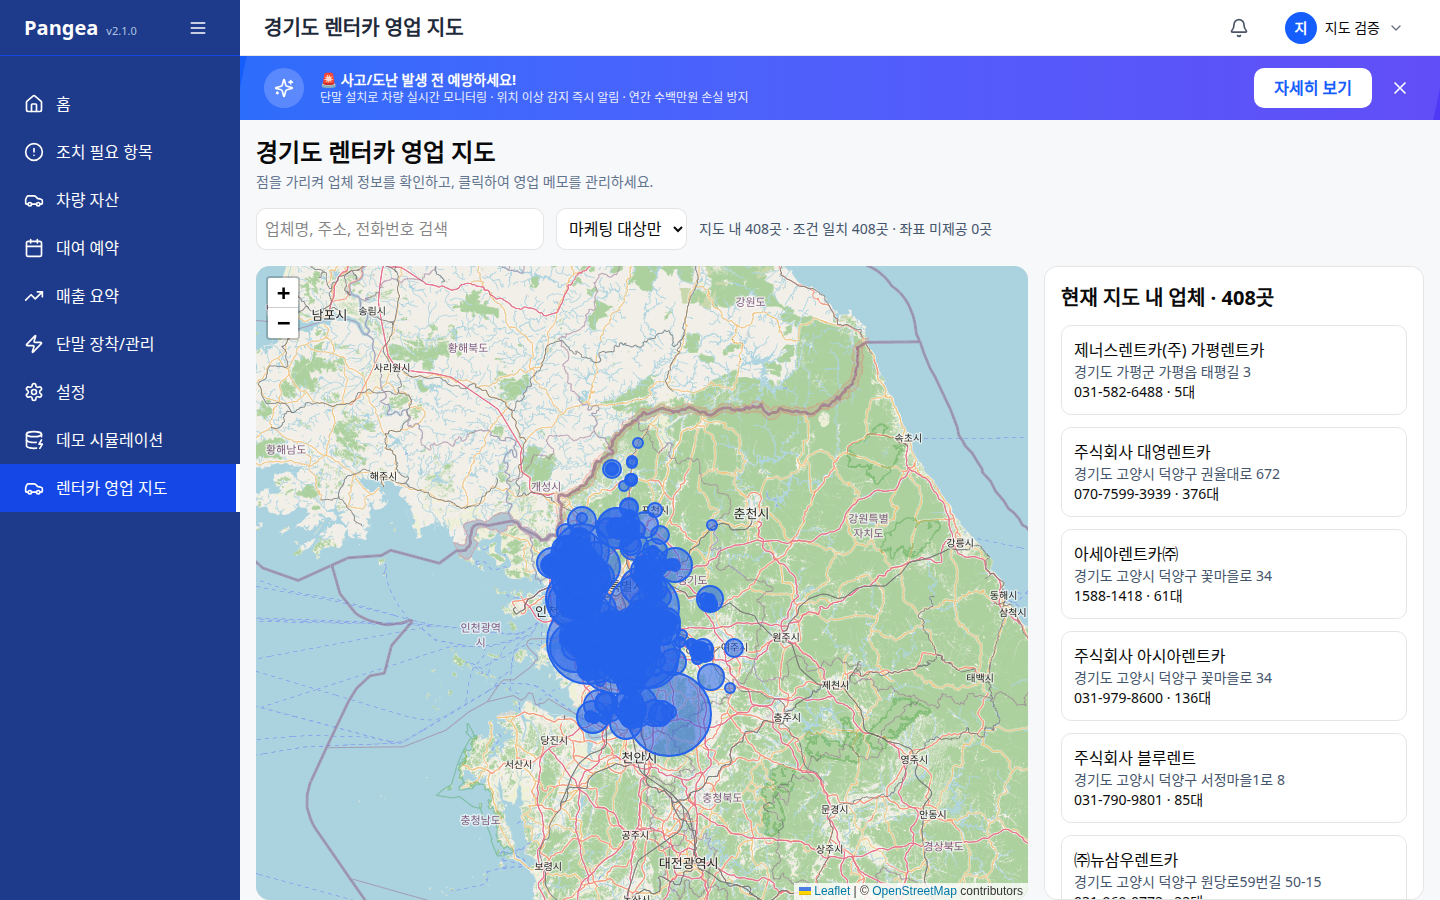
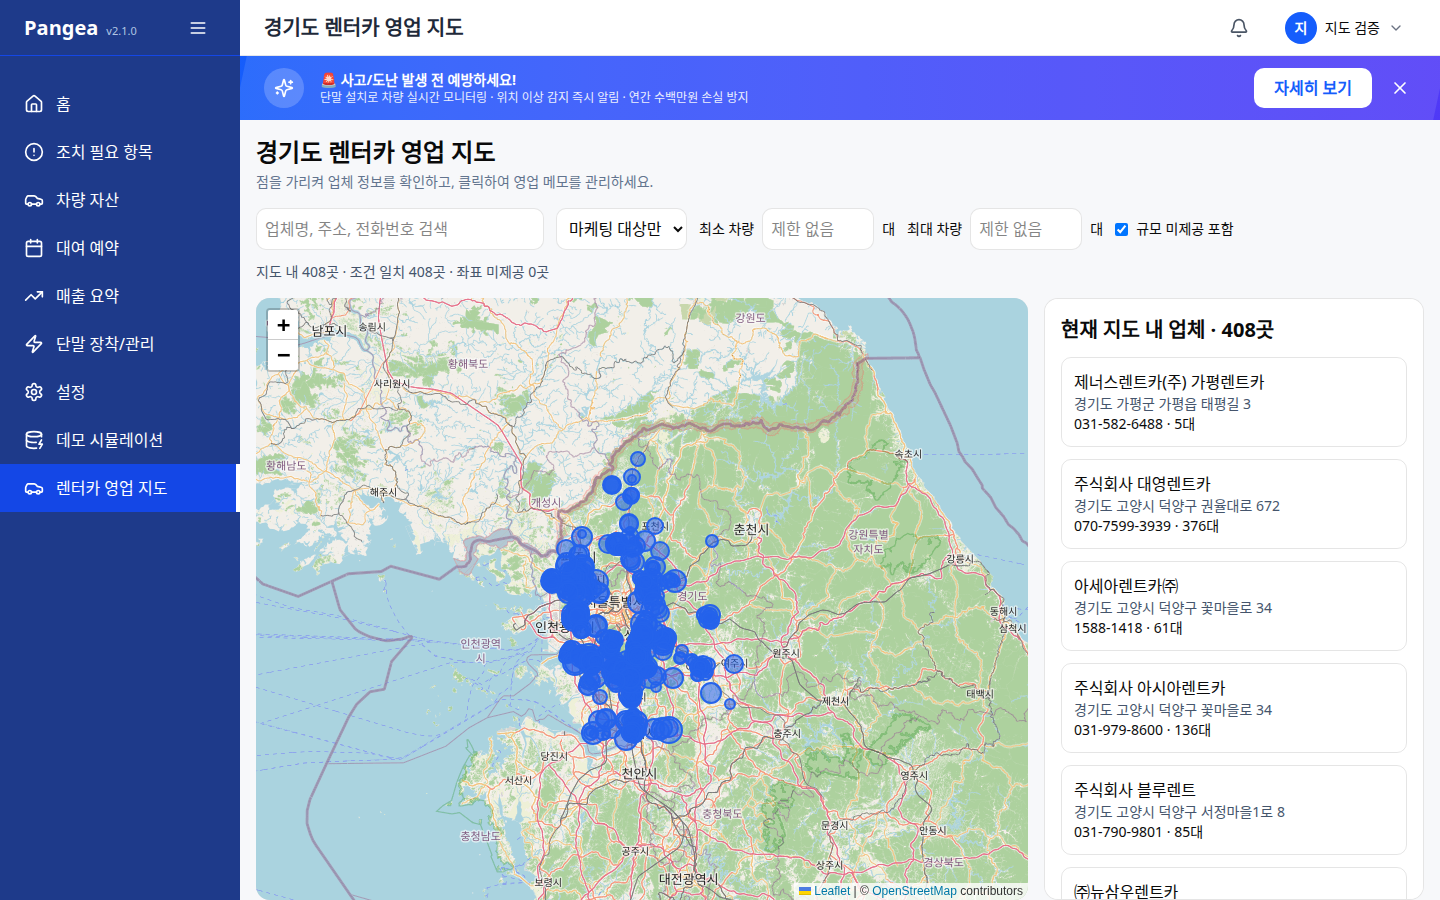
WI-20261026-001 filter fleet sizes and bound logarithmic markers

Changed region(s): [[0.1562, 0.2489, 0.9062, 1.0], [0.75, 0.2489, 0.875, 0.28], [0.2188, 0.9333, 0.25, 1.0]]

diff --git a/src/app/pages/RentalProspects.tsx b/src/app/pages/RentalProspects.tsx
@@ -10,8 +10,8 @@ const count = (n: number | null) => n === null ? '미제공' : `${n.toLocaleStri
 const hasLocation = (p: RentalProspect) => p.latitude !== null && p.longitude !== null;
 const vehicleDetails = (p: RentalProspect) => `승용 ${count(p.passengerVehicles)} · 승합 ${count(p.vans)} · 전기승용 ${count(p.electricPassengerVehicles)} · 전기승합 ${count(p.electricVans)}`;
 
-function ProspectMap({ items, selected, onSelect, onBounds }: {
-  items: RentalProspect[]; selected?: string;
+function ProspectMap({ items, selected, maxVehicles, onSelect, onBounds }: {
+  items: RentalProspect[]; selected?: string; maxVehicles: number;
   onSelect: (id: string) => void; onBounds: (bounds: L.LatLngBounds) => void;
 }) {
   const element = useRef<HTMLDivElement>(null);
@@ -50,7 +50,7 @@ function ProspectMap({ items, selected, onSelect, onBounds }: {
         const line = document.createElement('div'); line.textContent = text; content.append(line);
       });
       const marker = L.circleMarker([p.latitude!, p.longitude!], {
-        radius: p.totalVehicles === null ? 5 : Math.max(5, Math.min(42, Math.sqrt(p.totalVehicles) * 1.25)),
+        radius: p.totalVehicles === null ? 4 : 4 + 10 * Math.min(1, Math.log1p(Math.max(0, p.totalVehicles)) / Math.log1p(Math.max(1, maxVehicles))),
         color: p.excluded ? '#64748b' : '#2563eb', fillOpacity: 0.55, weight: 2,
       }).bindTooltip(content).on('click', () => onSelect(p.id)).addTo(group);
       markers.current.set(p.id, marker);
@@ -60,7 +60,7 @@ function ProspectMap({ items, selected, onSelect, onBounds }: {
     }
     onBounds(instance.getBounds());
     return () => { group.remove(); };
-  }, [items, onSelect, onBounds]);
+  }, [items, maxVehicles, onSelect, onBounds]);
   useEffect(() => {
     markers.current.forEach((marker, id) => marker.setStyle({ weight: selected === id ? 4 : 2 }));
     if (selected && centeredSelection.current !== selected) {
@@ -81,6 +81,9 @@ function ProspectWorkspace() {
   const [loading, setLoading] = useState(true);
   const [query, setQuery] = useState('');
   const [filter, setFilter] = useState('target');
+  const [minVehicles, setMinVehicles] = useState('');
+  const [maxVehicles, setMaxVehicles] = useState('');
+  const [includeUnknownSize, setIncludeUnknownSize] = useState(true);
   const [bounds, setBounds] = useState<L.LatLngBounds>();
   const [selected, setSelected] = useState<string>();
   const [drafts, setDrafts] = useState<Record<string, string>>({});
@@ -102,9 +105,17 @@ function ProspectWorkspace() {
     window.addEventListener('beforeunload', warn);
     return () => window.removeEventListener('beforeunload', warn);
   }, [dirty]);
+  const minimum = minVehicles === '' ? null : Number(minVehicles);
+  const maximum = maxVehicles === '' ? null : Number(maxVehicles);
+  const validRange = (minimum === null || (Number.isInteger(minimum) && minimum >= 0))
+    && (maximum === null || (Number.isInteger(maximum) && maximum >= 0))
+    && (minimum === null || maximum === null || minimum <= maximum);
+  const fleetScaleMaximum = useMemo(() => Math.max(1, ...(data?.items || []).map(p => p.totalVehicles ?? 0)), [data]);
   const filtered = useMemo(() => (data?.items || []).filter(p =>
+    (p.totalVehicles === null ? includeUnknownSize : !validRange ||
+      ((minimum === null || p.totalVehicles >= minimum) && (maximum === null || p.totalVehicles <= maximum))) &&
     (filter === 'all' || (filter === 'excluded' ? p.excluded : !p.excluded)) &&
-    `${p.name} ${p.address} ${p.phone}`.toLowerCase().includes(query.trim().toLowerCase())), [data, filter, query]);
+    `${p.name} ${p.address} ${p.phone}`.toLowerCase().includes(query.trim().toLowerCase())), [data, filter, query, minimum, maximum, validRange, includeUnknownSize]);
   const visible = useMemo(() => filtered.filter(p => hasLocation(p) && bounds?.contains([p.latitude!, p.longitude!])), [filtered, bounds]);
   const missing = filtered.filter(p => !hasLocation(p));
   const office = data?.items.find(p => p.id === selected);
@@ -138,12 +149,20 @@ function ProspectWorkspace() {
         <select aria-label="마케팅 대상 필터" value={filter} onChange={e => setFilter(e.target.value)} className="rounded-lg border bg-white p-2">
           <option value="target">마케팅 대상만</option><option value="all">전체 업체</option><option value="excluded">제외 업체만</option>
         </select>
+        <label className="flex items-center gap-2 text-sm">최소 차량
+          <input aria-label="최소 보유 차량 대수" type="number" min="0" step="1" value={minVehicles} onChange={e => setMinVehicles(e.target.value)} placeholder="제한 없음" className="w-28 rounded-lg border bg-white p-2" />대
+        </label>
+        <label className="flex items-center gap-2 text-sm">최대 차량
+          <input aria-label="최대 보유 차량 대수" type="number" min="0" step="1" value={maxVehicles} onChange={e => setMaxVehicles(e.target.value)} placeholder="제한 없음" className="w-28 rounded-lg border bg-white p-2" />대
+        </label>
+        <label className="flex items-center gap-2 text-sm"><input type="checkbox" checked={includeUnknownSize} onChange={e => setIncludeUnknownSize(e.target.checked)} />규모 미제공 포함</label>
         <span className="text-sm text-slate-600">지도 내 {visible.length}곳 · 조건 일치 {filtered.length}곳 · 좌표 미제공 {missing.length}곳</span>
       </div>
+      {!validRange && <p role="alert" className="text-sm text-red-700">차량 대수는 0 이상의 정수이며, 최소값은 최대값 이하여야 합니다. 올바른 범위를 입력할 때까지 대수 범위 필터는 적용되지 않습니다.</p>}
       {loading && <p role="status">업체 정보를 불러오는 중입니다…</p>}
       {error && <p role="alert">{error} <button onClick={() => setRetry(v => v + 1)} className="underline">다시 시도</button></p>}
       <div className="flex min-h-[600px] flex-1 flex-col gap-4 xl:flex-row">
-        <ProspectMap items={filtered} selected={selected} onSelect={choose} onBounds={changeBounds} />
+        <ProspectMap items={filtered} maxVehicles={fleetScaleMaximum} selected={selected} onSelect={choose} onBounds={changeBounds} />
         <aside className="flex max-h-[850px] w-full flex-col gap-3 overflow-auto rounded-xl border bg-white p-4 xl:w-[380px] xl:shrink-0" aria-label="업체 목록 및 영업 메모">
           {office && <section className="rounded-lg border border-blue-200 bg-blue-50 p-3">
             <h2 className="font-semibold">{office.name}</h2><p className="text-sm">{office.officeType} · {office.address}</p>
@@ -170,7 +189,7 @@ function ProspectWorkspace() {
           {missing.length > 0 && <details><summary className="cursor-pointer text-sm">좌표 미제공 업체 {missing.length}곳 (지도 표시 불가)</summary>{missing.map(p => <button key={p.id} onClick={() => choose(p.id)} className="block w-full border-b py-2 text-left text-sm">{p.name} · {p.address}</button>)}</details>}
         </aside>
       </div>
-      <footer className="text-xs text-slate-500">원 크기: 총 보유 차량 수 (최소·최대 크기 제한, 미제공은 작은 점) · 파랑: 대상 / 회색: 제외 · 차종별 수치는 원천값이며 전기차를 총량에 중복 합산하지 않습니다.<br />
+      <footer className="text-xs text-slate-500">원 반지름: 총 보유 차량 수에 로그 비례 (4~14px, 미제공 4px) · 파랑: 대상 / 회색: 제외 · 크기 기준은 전체 원천자료의 최대 보유 대수로 고정됩니다. 차종별 수치는 원천값이며 전기차를 총량에 중복 합산하지 않습니다.<br />
         <a href={data?.sourceUrl || 'https://www.data.go.kr/data/15025689/standard.do'} target="_blank" rel="noreferrer" className="underline">출처: 공공데이터포털 전국렌터카업체정보표준데이터</a> · 수집일 {data?.fetchedAt?.slice(0, 10) || '—'} · 경기도 주소가 있는 공개 사업장 기준이며 전체 업체를 보장하지 않습니다.
       </footer>
     </div>

diff --git a/e2e/rental-prospects.spec.ts b/e2e/rental-prospects.spec.ts
@@ -25,7 +25,7 @@ test('map hover, selection, memo persistence, exclusion filters, viewport list a
   await page.goto('/admin/rental-prospects');
   await expect(page.getByRole('link', { name: '렌터카 영업 지도' })).toBeVisible();
   await expect(page.locator('.leaflet-interactive')).toHaveCount(2);
-  const radii = await page.locator('.leaflet-interactive').evaluateAll(elements => elements.map(e => e.getBoundingClientRect().width));
+  const radii = await page.locator('.leaflet-interactive').evaluateAll(elements => elements.map(e => (e as SVGGraphicsElement).getBBox().width));
   expect(radii[0]).toBeGreaterThan(radii[1]);
   await page.locator('.leaflet-interactive').first().hover();
   await expect(page.locator('.leaflet-tooltip')).toContainText('승용 80대');
@@ -74,3 +74,41 @@ for (const role of ['admin', 'member', 'installer'] as const) {
     expect(requested).toBe(false);
   });
 }
+
+test('fleet range filters, unknown sizes and bounded stable logarithmic radii', async ({ page }) => {
+  await seedAuthSession(page, 'super_admin');
+  const totals = [100, 4, 1000000, null, 0];
+  await installApiMocks(page, { user: { role: 'super_admin' }, handlers: {
+    'GET /api/v2/admin/rental-prospects': async ({ route }) => fulfillSuccess(route, {
+      items: totals.map((totalVehicles, index) => ({ ...office, id: `size-${index}`, name: `규모 테스트 ${index}`, totalVehicles })),
+      sourceUrl: 'https://www.data.go.kr/data/15025689/standard.do', fetchedAt: '2026-10-26',
+    }),
+  }});
+  await page.goto('/admin/rental-prospects');
+  const markers = page.locator('.leaflet-interactive');
+  await expect(markers).toHaveCount(5);
+  const widths = await markers.evaluateAll(elements => elements.map(e => (e as SVGGraphicsElement).getBBox().width));
+  for (const width of widths) expect(width).toBeLessThanOrEqual(28.1);
+  expect(widths[2]).toBeCloseTo(28, 0);
+  expect(widths[0]).toBeCloseTo(2 * Math.round(4 + 10 * Math.log1p(100) / Math.log1p(1000000)), 0);
+  expect(widths[3]).toBeCloseTo(8, 0);
+  await page.getByLabel('최대 보유 차량 대수').fill('99');
+  await expect(markers).toHaveCount(3);
+  await page.getByLabel('최대 보유 차량 대수').fill('200');
+  await page.getByLabel('최소 보유 차량 대수').fill('50');
+  await expect(markers).toHaveCount(2);
+  await page.getByRole('checkbox', { name: '규모 미제공 포함' }).uncheck();
+  await expect(markers).toHaveCount(1);
+  const filteredWidth = await markers.first().evaluate(e => (e as SVGGraphicsElement).getBBox().width);
+  expect(filteredWidth).toBeCloseTo(widths[0], 0);
+  await page.getByLabel('최대 보유 차량 대수').fill('49');
+  await expect(page.getByRole('alert')).toContainText('최소값은 최대값 이하여야');
+  await page.getByLabel('최소 보유 차량 대수').fill('0');
+  await page.getByLabel('최대 보유 차량 대수').fill('0');
+  await expect(markers).toHaveCount(1);
+  await page.getByLabel('최소 보유 차량 대수').fill('');
+  await page.getByLabel('최대 보유 차량 대수').fill('');
+  await expect(markers).toHaveCount(4);
+  await page.getByRole('checkbox', { name: '규모 미제공 포함' }).check();
+  await expect(markers).toHaveCount(5);
+});

diff --git a/docs/features/rental-prospects.md b/docs/features/rental-prospects.md
@@ -3,9 +3,10 @@
 Super admin menu: **렌터카 영업 지도** → `/admin/rental-prospects`.
 
 - Leaflet 1.9.4 with OpenStreetMap raster tiles, visible attribution, browser caching. `VITE_OSM_TILE_URL` optionally overrides the tile endpoint; default `https://tile.openstreetmap.org/{z}/{x}/{y}.png`. Any replacement must retain correct provider attribution. No bulk tile download or prefetch.
-- Drag, mouse wheel, keyboard and +/- controls support pan/zoom. Radius grows with square root of source total vehicles and is bounded 5–42 pixels. Null totals use 5 pixels. Blue = marketing target; grey = excluded.
+- Drag, mouse wheel, keyboard and +/- controls support pan/zoom. Radius follows `4 + 10 * log1p(totalVehicles) / log1p(max(1, snapshotMaximum))`, clamped to 4–14 pixels. Null totals use 4 pixels. The scale uses the full snapshot maximum, so filtering never enlarges a remaining office. Blue = marketing target; grey = excluded.
 - Hover shows name, office type, address, telephone, total and vehicle categories, source date and marketing status. Tooltip uses text nodes to prevent source HTML execution. Click a point or list entry for full details and editable notes.
 - Side list reflects the current map bounds AND search/exclusion filters. Coordinates missing/invalid: separate expandable list with details and note editing, no invented map point.
+- Fleet range: inclusive minimum/maximum vehicle counts, optional open bounds, and an explicit include-unknown checkbox (default checked). Unknown counts stay distinct from zero. Invalid ranges show an error and do not apply numeric bounds.
 - Default filter: marketing targets only. Other options: all / excluded only. Name, address and phone search is client-side.
 - Memo Save persists explicitly to the API. Drafts are retained across office selection; dirty indicator, browser unload warning and route navigation dialog protect unsaved drafts. Failed saves retain text for retry. Exclusion saves immediately; map changes only after server confirmation.
 - Memo and exclusion updates are independent partial writes; toggling exclusion does not overwrite an unsaved memo.

diff --git a/docs/prompt_history/20261026_WI-20261026-001-rental-sales-map.md b/docs/prompt_history/20261026_WI-20261026-001-rental-sales-map.md
@@ -33,6 +33,10 @@ BE: v2 rental_prospects API, snapshot/service, Mongo collection, refresh script 
 
 - FE production build passed.
 - Backend focused API tests: 14 passed.
-- Chromium browser regression: 4 passed, including unsaved-note navigation guard.
+- Chromium browser regression: 5 passed, including unsaved-note navigation guard.
 - Live local HTTP + Docker MongoDB: source reads, memo creation/edit, exclusion persistence, admin 403 verified; original notes restored.
 - Latest origin/dev applied in isolated feature worktrees; no unrelated branch commits included.
+
+# Follow-up refinement
+
+사용자 요청으로 최소/최대 차량 대수 필터와 규모 미제공 포함 옵션을 추가했다. 점 반지름은 전체 원천 최대값 기준 log1p 비례 4–14px로 제한하여 대형 업체의 지도 가림을 줄였다. 필터 변경에 따른 크기 재정규화는 하지 않는다.
